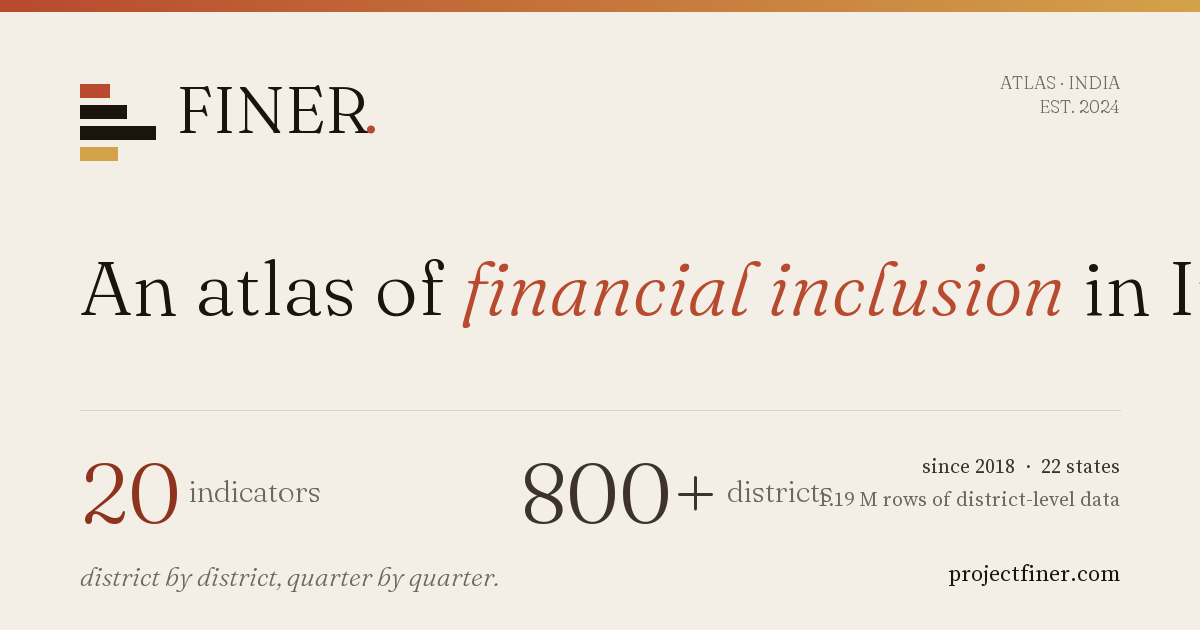
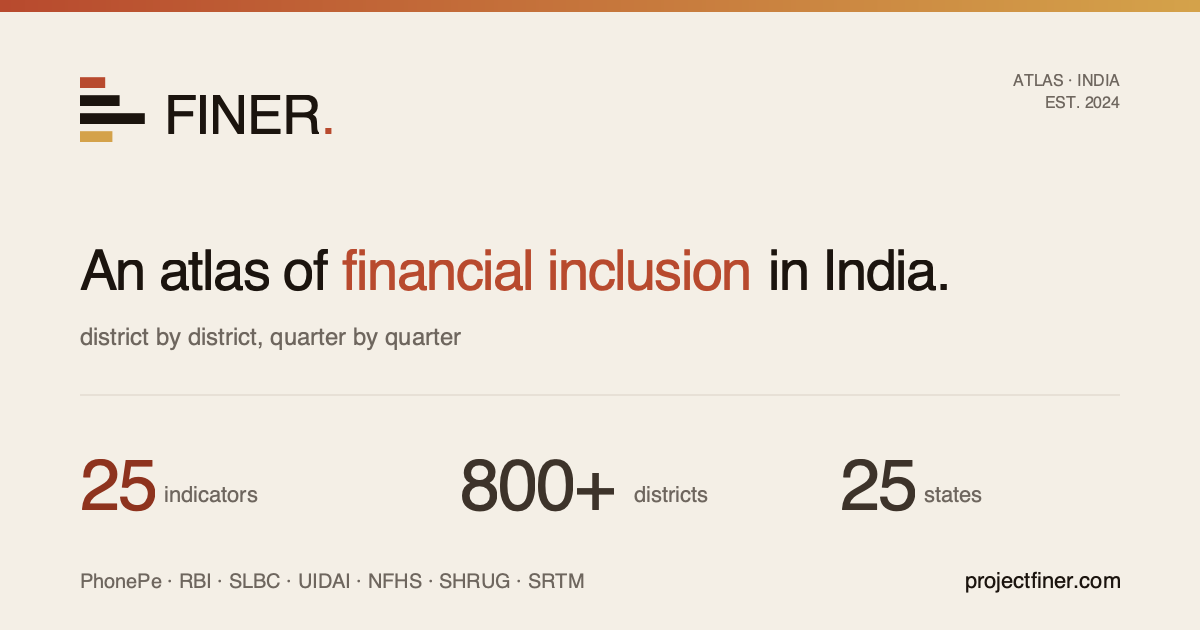
fix(og): rebuild Open Graph card — broken layout + stale counts
The OG image WhatsApp / Telegram / Twitter previews use was mangled:
- Headline "An atlas of financial inclusion in India." was rendered
  at 76px which overflowed the right edge, cutting off mid-word at
  "in I…"
- Right-column meta ("since 2018 · 22 states", "1.19 M rows…")
  overlapped the "800+ districts" stat label
- Stats were stale: still said "22 states" / "1.19 M rows" even
  though we'd long since reached 25 states / 1.36 M rows

Rewrote og-image.svg with a tighter layout:
- Headline at 56px (≈980px wide — fits inside 1040px text area)
- Italic Source Serif subhead "district by district, quarter by quarter"
- Stats: 25 indicators · 800+ districts · 25 states (three equal
  columns, no overlap)
- Bottom row: source citation strip (PhonePe · RBI · SLBC · UIDAI ·
  NFHS · SHRUG · SRTM) + projectfiner.com
- Two-attribute (`class="body mist"`) cleanup to fix the duplicate-
  class XML parse error

Re-rendered via new scripts/build_og_image.py — cairosvg + brew cairo
(DYLD_FALLBACK_LIBRARY_PATH=/opt/homebrew/lib) at 1200×630, 45 KB.

diff --git a/scripts/build_og_image.py b/scripts/build_og_image.py
@@ -1,0 +1,12 @@
+"""Render public/og-image.svg → public/og-image.png (1200×630) for OG meta."""
+import os
+os.environ.setdefault('DYLD_FALLBACK_LIBRARY_PATH', '/opt/homebrew/lib')
+os.environ.setdefault('DYLD_LIBRARY_PATH', '/opt/homebrew/lib')
+import cairosvg
+from pathlib import Path
+ROOT = Path(__file__).resolve().parent.parent
+SVG = ROOT / 'public/og-image.svg'
+PNG = ROOT / 'public/og-image.png'
+cairosvg.svg2png(url=str(SVG), write_to=str(PNG),
+                 output_width=1200, output_height=630)
+print(f'  wrote {PNG.relative_to(ROOT)} ({PNG.stat().st_size//1024} KB)')